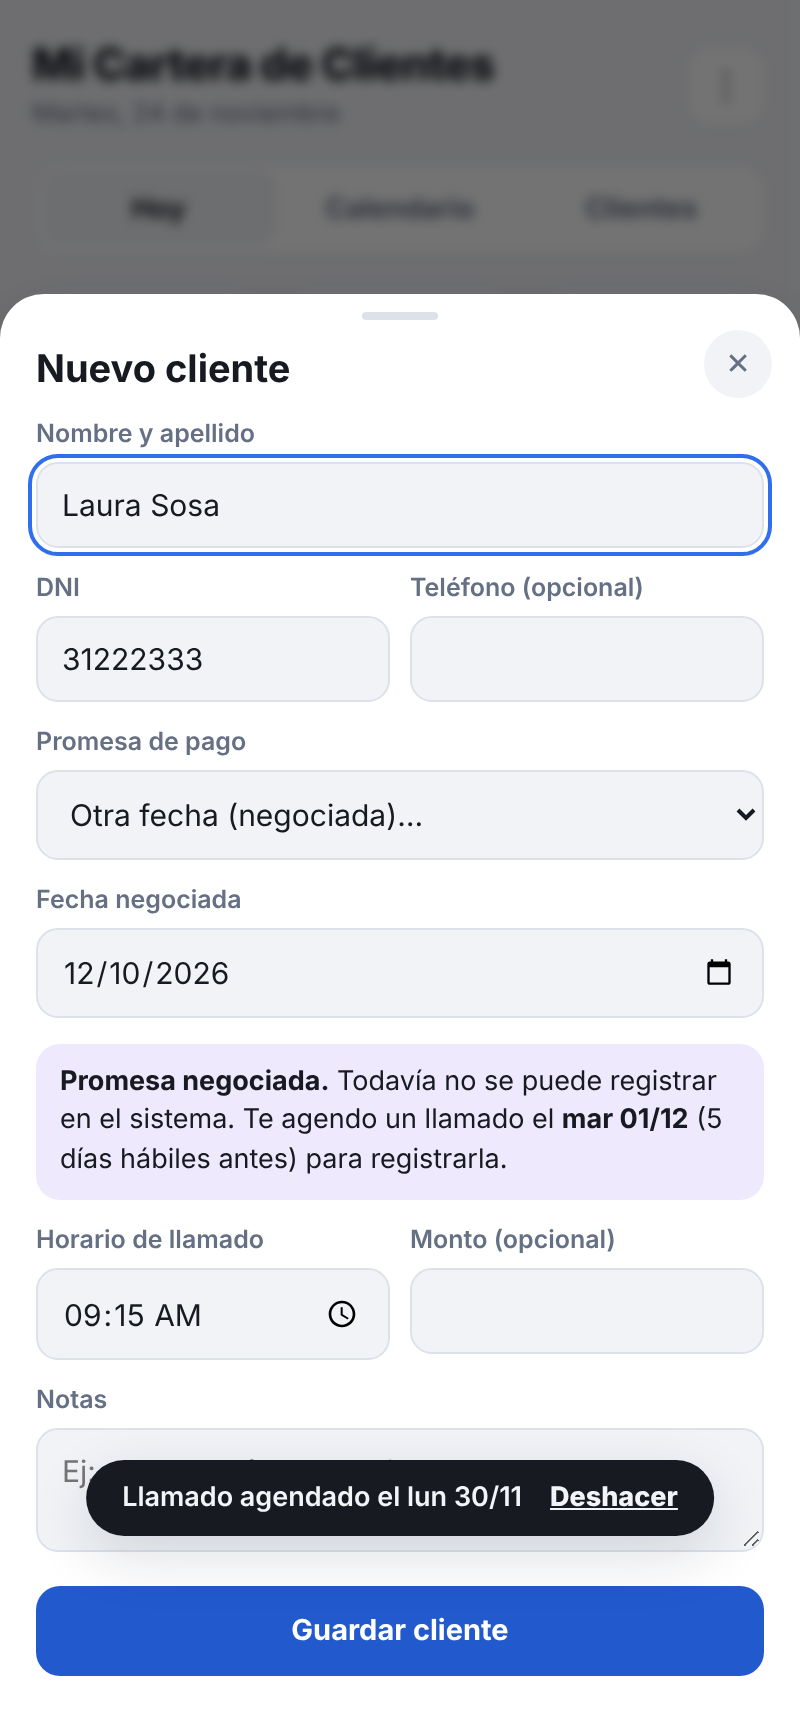
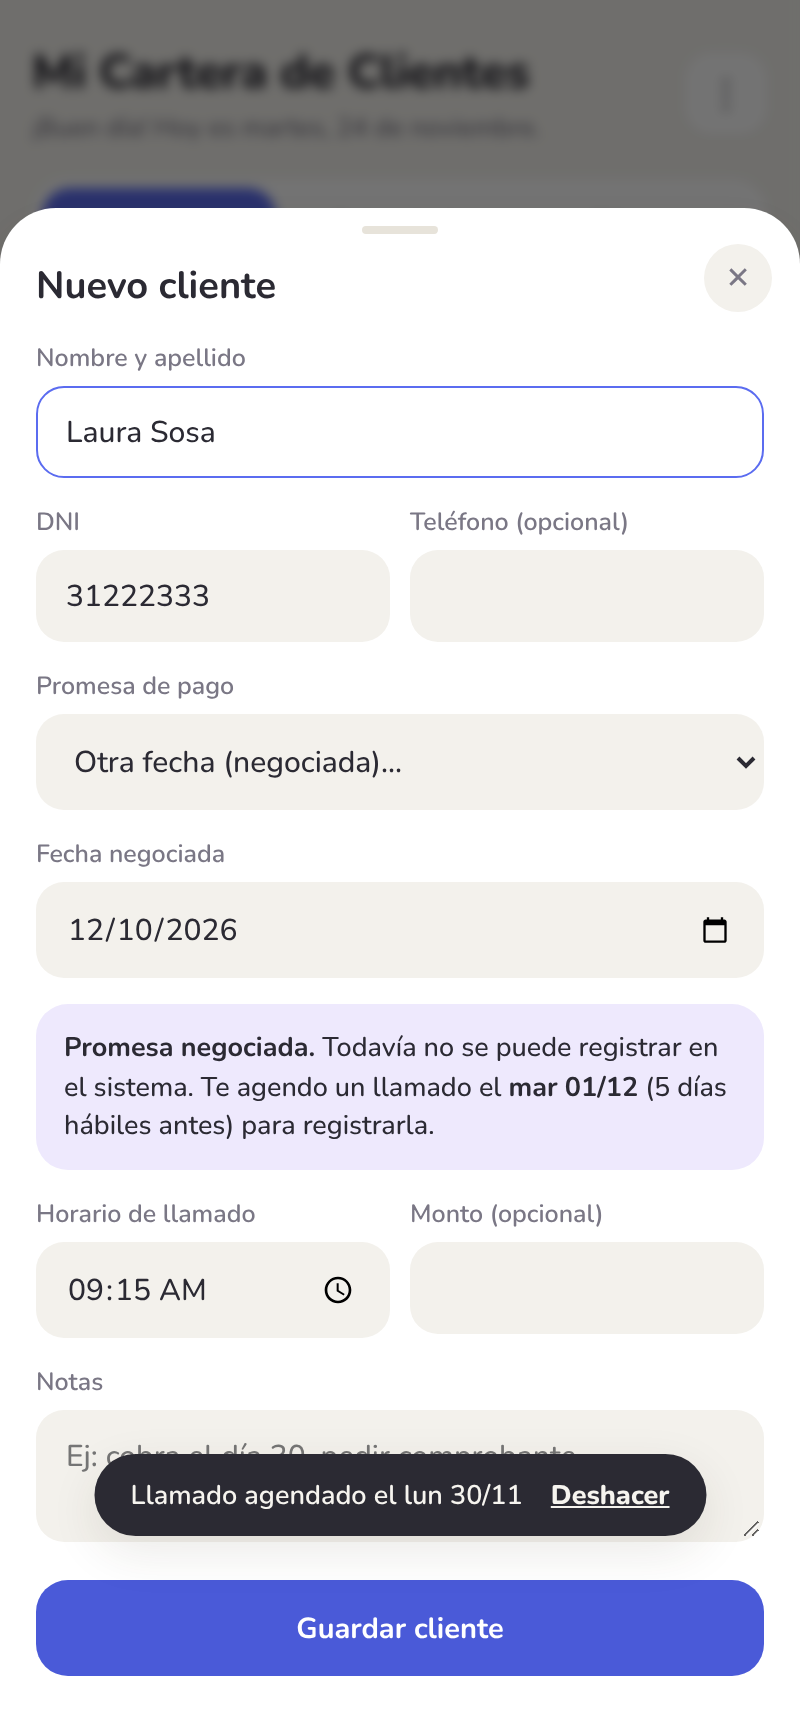
Estética más simple y amigable
Claude-Session: https://claude.ai/code/session_018NsGPEPBumaffWuorDmrU1

diff --git a/index.html b/index.html
@@ -4,36 +4,39 @@
 <meta charset="UTF-8">
 <meta name="viewport" content="width=device-width, initial-scale=1.0">
 <title>Mi Cartera de Clientes</title>
+<link rel="preconnect" href="https://fonts.googleapis.com">
+<link rel="preconnect" href="https://fonts.gstatic.com" crossorigin>
+<link href="https://fonts.googleapis.com/css2?family=Nunito:wght@500;600;700;800&display=swap" rel="stylesheet">
 <style>
   :root{
-    color-scheme:dark;
-    --bg:#0d0f14; --panel:#161920; --panel2:#1e222b; --hover:#262b36; --border:#2a2f3a;
-    --text:#eceef2; --muted:#98a1b2; --accent:#5b93ff; --accent2:#4279e6; --on-accent:#fff;
-    --red:#f26464; --red-strong:#d63a3a; --red-bg:#2c1617;
-    --amber:#f2a93b; --amber-bg:#2b2314;
-    --green:#3ecf8e; --green-bg:#12291f;
-    --blue:#6ab0f2; --blue-bg:#14212c;
-    --violet:#b69cff; --violet-bg:#221b33;
-    --grey-bg:#20242d;
-    --radius:16px; --shadow:0 10px 30px rgba(0,0,0,0.45);
+    color-scheme:light;
+    --bg:#f6f4ef; --panel:#ffffff; --panel2:#f3f1ec; --hover:#ebe8e1; --border:#e7e3da;
+    --text:#2b2a33; --muted:#7a7785; --accent:#5b6cf0; --accent2:#4a5ad8; --on-accent:#fff;
+    --red:#e5534b; --red-strong:#cc3d35; --red-bg:#fdecea;
+    --amber:#c47a10; --amber-bg:#fdf2dc;
+    --green:#2f9e6e; --green-bg:#e3f5ec;
+    --blue:#3f7fd8; --blue-bg:#e6effc;
+    --violet:#7b5ce0; --violet-bg:#eee9fd;
+    --grey-bg:#efede8;
+    --radius:20px; --shadow:0 8px 24px rgba(60,50,30,0.10); --soft:0 1px 3px rgba(60,50,30,0.06);
   }
-  @media (prefers-color-scheme: light){
+  @media (prefers-color-scheme: dark){
     :root{
-      color-scheme:light;
-      --bg:#f3f4f8; --panel:#fff; --panel2:#f1f3f7; --hover:#e6e9f0; --border:#dde1e9;
-      --text:#171a21; --muted:#667085; --accent:#2f6fed; --accent2:#2259cc;
-      --red:#d92d20; --red-strong:#b42318; --red-bg:#fde9e7;
-      --amber:#a86200; --amber-bg:#fdf0d8;
-      --green:#0f7a56; --green-bg:#dcf5ea;
-      --blue:#1d6fb8; --blue-bg:#e1effb;
-      --violet:#6941c6; --violet-bg:#efe9fd;
-      --grey-bg:#eceef3; --shadow:0 10px 30px rgba(20,30,60,0.14);
+      color-scheme:dark;
+      --bg:#17161c; --panel:#211f28; --panel2:#2a2832; --hover:#33303c; --border:#34313d;
+      --text:#f1eff5; --muted:#a29fae; --accent:#8090ff; --accent2:#6d7ef0;
+      --red:#ff7a72; --red-strong:#f05a52; --red-bg:#3a2224;
+      --amber:#f0b04a; --amber-bg:#3a2f1c;
+      --green:#5fd19e; --green-bg:#1c3329;
+      --blue:#7fb0f5; --blue-bg:#1e2a3d;
+      --violet:#b5a0ff; --violet-bg:#2b2440;
+      --grey-bg:#2a2832; --shadow:0 8px 24px rgba(0,0,0,0.4); --soft:none;
     }
   }
   *{box-sizing:border-box;}
   [hidden]{display:none !important;}
   body{
-    margin:0; font-family:-apple-system,BlinkMacSystemFont,"Segoe UI",Roboto,Helvetica,Arial,sans-serif;
+    margin:0; font-family:"Nunito",-apple-system,BlinkMacSystemFont,"Segoe UI",Roboto,Helvetica,Arial,sans-serif;
     background:var(--bg); color:var(--text); min-height:100vh;
     -webkit-font-smoothing:antialiased; -webkit-tap-highlight-color:transparent;
   }
@@ -253,6 +256,42 @@
   }
   .toast.show{opacity:1; transform:translateX(-50%); pointer-events:auto;}
   .toast button{background:none; border:none; color:inherit; font-weight:800; font-size:13.5px; text-decoration:underline; cursor:pointer; padding:0;}
+
+  /* Estilo amable */
+  header h1{font-size:24px; letter-spacing:-0.01em;}
+  .summary .card, .item, .cal, .tabs, .search, .proximo{box-shadow:var(--soft);}
+  .summary .card, .item, .cal{border-color:transparent;}
+  .tabs{border-color:transparent; border-radius:18px;}
+  .tab{border-radius:14px;}
+  .tab.active{background:var(--accent); color:var(--on-accent); box-shadow:none;}
+  .tab.active .n{background:#fff; color:var(--accent);}
+  .summary .card{padding:16px 8px 14px;}
+  .summary .num{font-size:30px;}
+  .item{border-radius:18px; padding:14px 14px 14px 18px;}
+  .item::before{top:14px; bottom:14px; left:6px; width:5px; border-radius:5px;}
+  .item:hover{background:var(--panel); transform:translateY(-1px); box-shadow:var(--shadow);}
+  .item{transition:transform .12s, box-shadow .12s;}
+  .hora{background:var(--panel2); border-radius:12px; padding:8px 0; width:60px;}
+  .badge{padding:5px 11px;}
+  .search{border-color:transparent; border-radius:16px; padding:14px 16px;}
+  .chip{border-color:transparent; background:var(--panel); box-shadow:var(--soft);}
+  .chip.active{background:var(--accent); border-color:var(--accent); color:var(--on-accent);}
+  .cal{padding:14px;}
+  .cal-day{border-radius:12px;}
+  .cal-day.today{border-color:var(--accent); border-width:2px;}
+  .icon-btn{border-color:transparent; box-shadow:var(--soft); border-radius:14px;}
+  .fab{border-radius:20px; width:60px; height:60px;}
+  .sheet{border-radius:28px 28px 0 0;}
+  @media (min-width:760px){ .sheet{border-radius:28px;} }
+  .field input, .field select, .field textarea{border-radius:14px; border-color:transparent; padding:12px 14px;}
+  .field input:focus, .field select:focus, .field textarea:focus{outline:none; border-color:var(--accent); background:var(--panel);}
+  .btn{border-radius:16px;}
+  .info-box{border-radius:16px; padding:12px 14px;}
+  .proximo{border-color:transparent; border-radius:18px; background:var(--blue-bg);}
+  .hist-item{border-radius:14px;}
+  .section-title{text-transform:none; letter-spacing:0; font-size:15px; color:var(--text); font-weight:800;}
+  .detail-section h3{text-transform:none; letter-spacing:0; font-size:15px; color:var(--text);}
+  .empty .big{font-size:42px;}
 </style>
 </head>
 <body>
@@ -670,7 +709,7 @@
     bloque('Atrasados', atrasados, true);
     bloque('Hoy · '+deHoy.length+(deHoy.length===1?' llamado':' llamados'), deHoy, false);
     if(!atrasados.length && !deHoy.length){
-      cont.insertAdjacentHTML('beforeend','<div class="empty"><div class="big">✓</div>No tenés llamados pendientes para hoy.</div>');
+      cont.insertAdjacentHTML('beforeend','<div class="empty"><div class="big">🎉</div>¡Todo al día! No tenés llamados pendientes para hoy.</div>');
     }
     bloque('Próximo día hábil · '+fmtCorto(proximo), manana, true);
   }
@@ -1053,7 +1092,8 @@
   let ultimoDia = hoy();
   document.addEventListener('visibilitychange', ()=>{ if(!document.hidden && hoy()!==ultimoDia){ ultimoDia=hoy(); calMes=null; calSel=null; renderAll(); } });
 
-  $('fechaHoy').textContent = fmtLargo(hoy());
+  const hh=new Date().getHours();
+  $('fechaHoy').textContent = (hh<12?'¡Buen día! ':hh<20?'¡Buenas tardes! ':'¡Buenas noches! ')+'Hoy es '+fmtLargo(hoy()).toLowerCase()+'.';
   load();
   renderAll();
 })();
